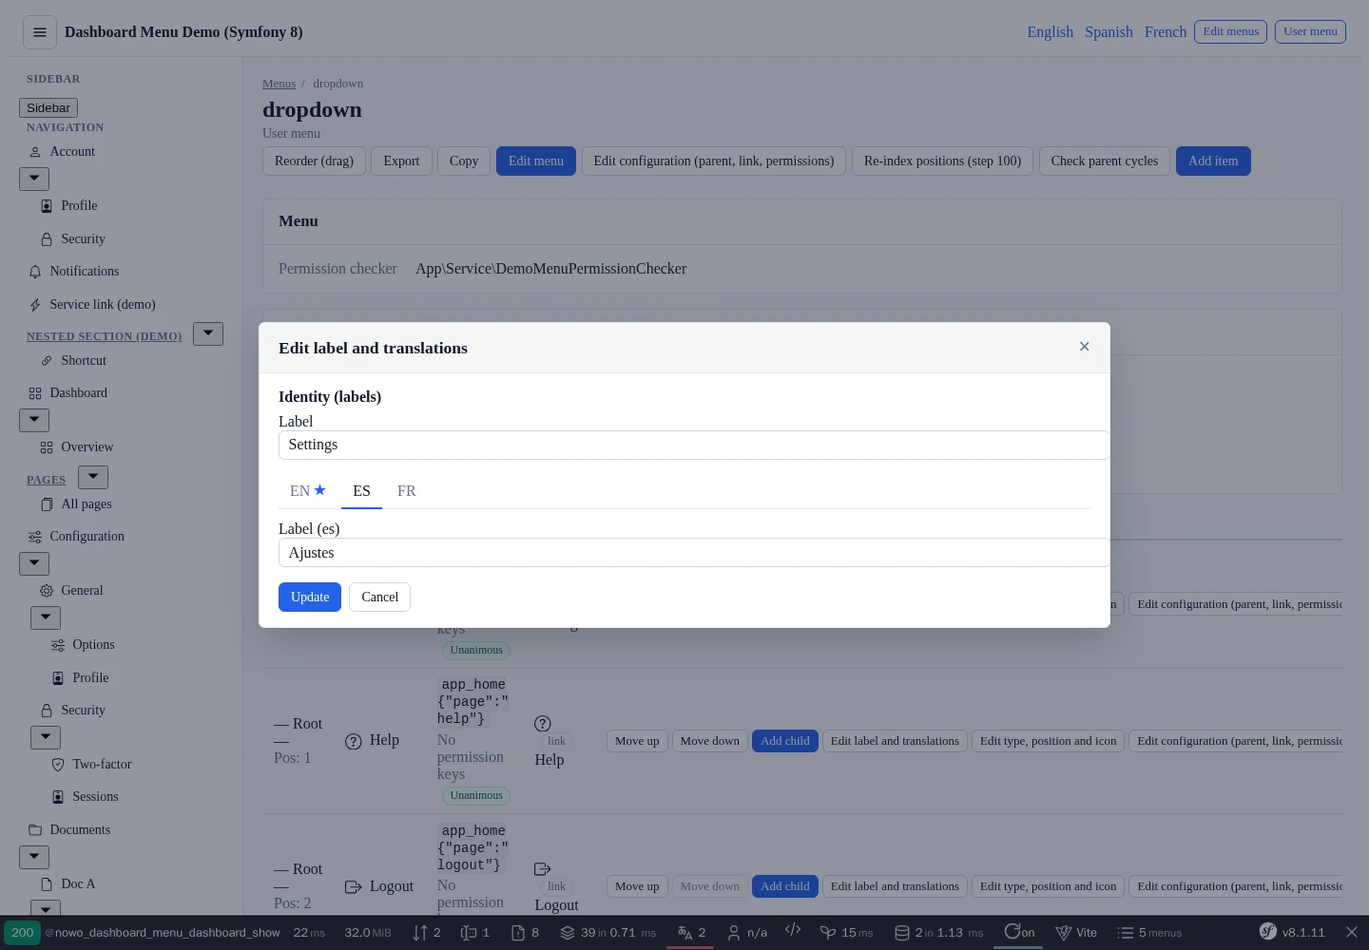
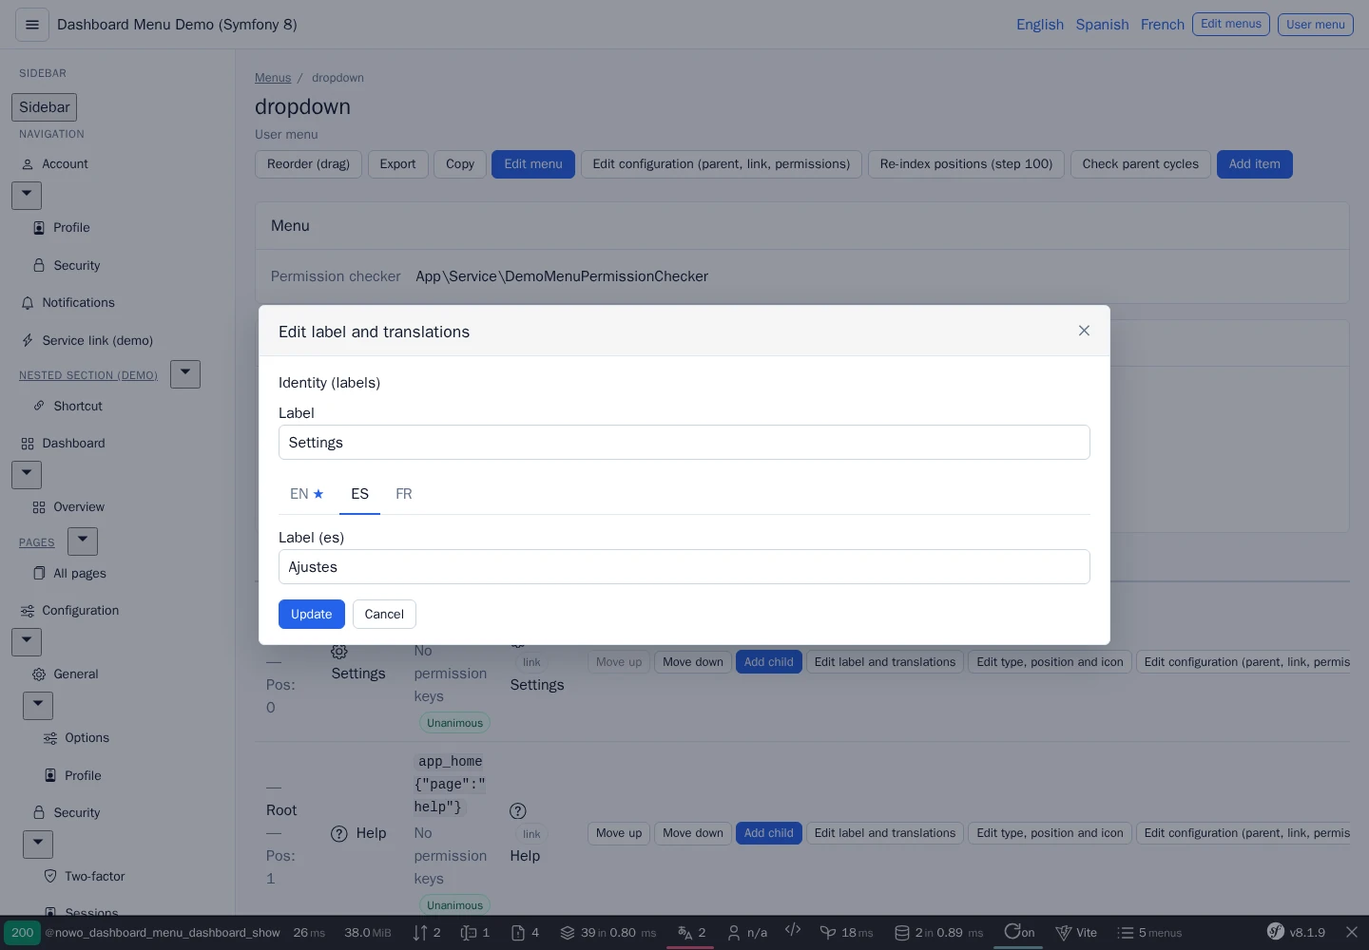
chore(docs): demo opts into UiKit base theme, masthead nav fixed, screenshots regenerated

diff --git a/demo/symfony8/config/reference.php b/demo/symfony8/config/reference.php
@@ -1,7 +1,5 @@
 <?php
 
-declare(strict_types=1);
-
 // This file is auto-generated and is for apps only. Bundles SHOULD NOT rely on its content.
 
 namespace Symfony\Component\DependencyInjection\Loader\Configurator;
@@ -1358,6 +1356,7 @@ use Symfony\Component\Config\Loader\ParamConfigurator as Param;
  *     doctrine?: array{ // Doctrine DBAL connection and table prefix for menu entities.
  *         connection?: scalar|Param|null, // Name of the Doctrine DBAL connection to use (e.g. default, or a custom connection). // Default: "default"
  *         table_prefix?: scalar|Param|null, // Prefix prepended to table names (dashboard_menu, dashboard_menu_item). Empty = no prefix. // Default: ""
+ *         entity_manager?: scalar|Param|null, // Doctrine entity manager the menu entities are mapped on (2.18), e.g. a dedicated "dashboard_menu" manager of a DDD host: mapped there only (also with auto_mapping on the default one) and every read, write and reset of the bundle uses it. Null (default) = the manager that maps them. // Default: null
  *     },
  *     cache?: array{ // Cache for the resolved menu tree (avoids N+1 and repeated DB hits). Uses filesystem when cache_pool is the default.
  *         ttl?: int|Param, // Time-to-live in seconds for the menu tree cache. Minimum 0 (0 = immediate expiry for saved items; behaviour depends on the PSR-6 pool). // Default: 60
@@ -1366,6 +1365,7 @@ use Symfony\Component\Config\Loader\ParamConfigurator as Param;
  *     icon_library_prefix_map?: array<string, scalar|Param|null>,
  *     locales?: mixed, // List of enabled locales for menu labels. When set, the request locale is used only if in this list; otherwise default_locale or the first locale is used. A literal list, or a parameter / env var holding one: "%app.locales%", "%kernel.enabled_locales%", "%env(json:APP_LOCALES)%" (resolved at runtime). // Default: []
  *     default_locale?: scalar|Param|null, // Fallback locale when the request locale is not in locales. If null, the first entry in locales is used. // Default: null
+ *     strict_permission_checker?: bool|Param, // Throw a LogicException when a menu names a permission checker that cannot be resolved. Off by default: the menu then hides its keyed items, keeps keyless ones, logs an error and shows the fallback in the profiler (so a typo never locks you out of the dashboard). // Default: false
  *     permission_checker_choices?: list<scalar|Param|null>,
  *     menu_link_resolver_choices?: list<scalar|Param|null>,
  *     api?: array{
@@ -1375,7 +1375,8 @@ use Symfony\Component\Config\Loader\ParamConfigurator as Param;
  *     menu_collapse?: array{ // Bootstrap-free nested collapse (2.6.0): menu.html.twig marks the menu root with data-dashboard-menu-collapse* attributes for public/js/menu-collapse.js. Opt-in; the script must be included by the host. See docs/USAGE.md "Nested collapse without Bootstrap JS".
  *         enabled?: bool|Param, // Emit the data-dashboard-menu-collapse* attributes on the rendered menu root (overridable per include with the menuCollapse variable). Default false: markup unchanged. // Default: false
  *         mode?: "auto"|"always"|Param, // "auto" (default): the script stands down while Bootstrap Collapse JS is loaded (no double toggle) and only restores / remembers state. "always": the script takes the toggles over (drops their data-bs-toggle). // Default: "auto"
- *         storage_key?: scalar|Param|null, // localStorage key holding { <menu code>: { <panel id>: open } }. Empty string disables persistence. // Default: "nowo.dashboardMenu.navCollapse"
+ *         storage_key?: scalar|Param|null, // localStorage key holding { <menu code>: { <panel id>: open } }. Empty string (or null) disables persistence. // Default: "nowo.dashboardMenu.navCollapse"
+ *         nested_default?: "expanded"|"collapsed"|"current"|Param, // Initial state of the nested collapsible groups rendered by menu.html.twig (2.16.0). "expanded" (default): every group open (2.15 markup). "collapsed": every group closed. "current": open only the groups whose branch contains the current item. Applies with or without the menu_collapse script; per include: menuCollapseNestedDefault. // Default: "expanded"
  *     },
  *     dashboard?: array{ // Admin dashboard to manage menus and items. Import routes with prefix (e.g. /admin/menus).
  *         enabled?: bool|Param, // Deprecated: The "nowo_dashboard_menu.dashboard.enabled.enabled" option is deprecated, use "nowo_dashboard_menu.web_ui.enabled" instead. // Deprecated alias of web_ui.enabled.
@@ -1475,6 +1476,15 @@ use Symfony\Component\Config\Loader\ParamConfigurator as Param;
  *         icon_size?: scalar|Param|null, // CSS size used to render menu item icons (applied to SVG via width/height and to legacy icons via `font-size`). Example: `1em`, `16px`, `24px`. // Default: "1em"
  *         autocomplete_bootstrap?: bool|Param, // When true (default), dashboard.js registers Symfony UX Autocomplete from esm.sh and injects the Tom Select CDN stylesheet if the host Stimulus app has not registered the controller. Set false when the host app ships UX Autocomplete and its own Tom Select styles (CSP without third-party origins). The script never re-registers a controller the host already registered. // Default: true
  *         item_span_active?: bool|Param, // When true, the item label (non-section items) is wrapped in an extra <span> element. This controls rendering of the wrapper in menu.html.twig. // Default: false
+ *         nested_group_display?: "collapsible"|"link_row"|Param, // How menu.html.twig draws a collapsible section nested in another section: "collapsible" (default, a heading link plus the chevron button) or "link_row" (one <button> toggle row in the link style: icon, label, chevron on the right; classes from group_classes). Top-level sections are unchanged. // Default: "collapsible"
+ *         group_children_marker?: "none"|"dot"|Param, // Marker of the links whose parent is a section (rendered as a nested list, not flattened): "none" (default, their icon) or "dot" (an empty <span class="group_classes.dot"> instead of the icon, styled by the host as a list bullet). // Default: "none"
+ *         toggle_icon?: scalar|Param|null, // Symfony UX icon name of the expand / collapse chevrons in menu.html.twig (e.g. "tabler:chevron-down", rendered with ux_icon and class menu-nested-toggle-svg). Null (default) keeps the inline SVG triangle. // Default: null
+ *         group_classes?: array{ // CSS classes of the markup added by nested_group_display "link_row" and group_children_marker "dot".
+ *             toggle?: scalar|Param|null, // Class added to the link-row <button> (after the link classes). // Default: "menu-group-toggle"
+ *             label?: scalar|Param|null, // Class of the <span> holding the group label. // Default: "menu-group-label"
+ *             chevron?: scalar|Param|null, // Class of the chevron icon of the link row. // Default: "menu-group-chevron"
+ *             dot?: scalar|Param|null, // Class of the dot <span> of the group children. // Default: "menu-group-dot"
+ *         },
  *         css_class_options?: array{ // Lists of CSS classes shown as selectors in the dashboard when editing a menu. Override in app config to customize options.
  *             menu?: list<scalar|Param|null>,
  *             item?: list<scalar|Param|null>,
@@ -1514,14 +1524,19 @@ use Symfony\Component\Config\Loader\ParamConfigurator as Param;
  *     css_framework?: "bootstrap"|"bootstrap5"|"bootstrap4"|"tailwind"|"foundation"|"custom"|"tabler"|"none"|Param, // Host CSS stack: bootstrap5|bootstrap4|tailwind|foundation|custom|none|tabler (bootstrap alias → bootstrap5). // Default: "bootstrap5"
  *     icon_set?: "bootstrap-icons"|"tabler-icons"|"ux_icon"|"svg_inline"|"none"|Param, // Icon rendering: bootstrap-icons|tabler-icons|ux_icon|svg_inline|none. // Default: "bootstrap-icons"
  *     row_actions_display?: "icon"|"text"|"icon_text"|Param, // Table/list row actions: icon (glyph only) | text (label only) | icon_text (both). // Default: "icon"
+ *     row_actions_confirm?: "inline"|"native"|"dialog"|Param, // confirm_message of 1.x row_actions POST hashes (2.22, REQ-UI-003): inline = onsubmit="return confirm(…)" (default, unchanged markup); native | dialog = no inline handler, the confirm-submit Stimulus peer asks (window.confirm or the kit <dialog>). native / dialog need the confirm-submit peer registered. // Default: "inline"
+ *     action_icons?: array<string, scalar|Param|null>,
+ *     action_variants?: array<string, scalar|Param|null>,
  *     panel_path_rewrites?: array<string, scalar|Param|null>,
  *     release_check?: array{ // Optional GitHub release-version checker (footer dialog + JSON endpoint). Off by default.
- *         enabled?: bool|Param, // Register the checker service + controller. Also import @NowoUiKitBundle/Resources/config/routes/release_check.yaml. // Default: false
+ *         enabled?: bool|Param, // Register the checker service + controller. Also import @NowoUiKitBundle/Resources/config/routes/release_check.yaml. Since 2.33 also a container parameter or "%env(bool:…)%" (false at runtime = the check is skipped and the endpoint answers 404). // Default: false
  *         github_repo?: scalar|Param|null, // Public GitHub repository "owner/name" whose releases are compared (e.g. nowo-tech/my-app). // Default: ""
  *         current_version?: scalar|Param|null, // Installed version label, clean semver x.y.z with optional "v" (e.g. "%app.version%"). Non-semver values skip the check. // Default: ""
  *         cache_ttl?: int|Param, // Seconds to cache the GitHub answer (cache.app). Default 12h. // Default: 43200
  *         default_branch?: scalar|Param|null, // Branch used as compare target when the installed version is already the latest. // Default: "main"
  *         user_agent?: scalar|Param|null, // User-Agent sent to api.github.com. // Default: "nowo-ui-kit-release-check"
+ *         timeout?: float|Param, // Idle timeout in seconds of the GitHub "releases/latest" request (HttpClient "timeout"). Keep it below PHP max_execution_time (REQ-RUNTIME-001). // Default: 5.0
+ *         releases_timeout?: float|Param, // Idle timeout in seconds of the GitHub "releases" listing used to count versions behind. Keep it below PHP max_execution_time (REQ-RUNTIME-001). // Default: 8.0
  *     },
  *     route_links?: array{ // Route (or route prefix) → link map read by nowo_ui_route_link(), e.g. for the page-edge "manual" tab (partials/_edge_tab.html.twig). A prefix matches the route itself or any route starting with "<prefix>_"; the longest prefix wins.
  *         base_url?: scalar|Param|null, // Prepended to every relative path (paths starting with "/", "//", "http://" or "https://" are used as is). // Default: ""
@@ -1531,9 +1546,21 @@ use Symfony\Component\Config\Loader\ParamConfigurator as Param;
  *             testid?: scalar|Param|null, // Default: null
  *         }>,
  *     },
+ *     base_stylesheet?: bool|Param, // 2.51: link UiKit's opt-in default theme (css/nowo-ui-base.css) before nowo-ui.css in the document / error layouts: body font stack, page gutters and masthead height for hosts that bring no CSS framework and no theme stylesheet. Its rules nest in `@layer theme.nowo-ui-base`, below `base`, so a framework, host utilities and unlayered host CSS still win. Leave it false when the host already has a framework or a theme file. // Default: false
+ *     font_preload?: array{ // 2.21: <link rel="preload" as="font" crossorigin> tags printed in the <head> of the document and error layouts (Twig nowo_ui_font_preload()) for the fonts painted above the fold. Empty = no tags.
+ *         fonts?: list<scalar|Param|null>,
+ *         manifest?: array{ // Hashed builds: pick the fonts from a Vite manifest (.vite/manifest.json). A missing manifest (dev server) prints nothing.
+ *             path?: scalar|Param|null, // Absolute path of the manifest, e.g. "%kernel.project_dir%/public/build/.vite/manifest.json"; null = off. // Default: null
+ *             entry?: scalar|Param|null, // Manifest entry whose "assets" list holds the fonts. // Default: "assets/app.js"
+ *             prefixes?: list<scalar|Param|null>,
+ *             base?: scalar|Param|null, // Public URL prefix of the manifest assets. // Default: "/build/"
+ *         },
+ *     },
  *     appearance?: array{ // Optional site appearance SPI (presets, --nowo-ui-* token emitter, Twig functions). Off by default.
  *         enabled?: bool|Param, // Default: false
- *         provider?: scalar|Param|null, // Service id implementing AppearanceProviderInterface (host storage). Null = the config defaults below. // Default: null
+ *         provider?: scalar|Param|null, // Service id implementing AppearanceProviderInterface (host storage). Null = the config defaults below (or, 2.40, the brand provider: see brand). // Default: null
+ *         brand?: "auto"|"off"|Param, // 2.40 (spec 220): auto = with provider null and a nowo-tech/brand-contracts BrandProviderInterface service, the brand drives the name, eyebrow, colours and logos (corner, border and footer stay from defaults). off = always the defaults. No brand service = no change. // Default: "auto"
+ *         head_links?: bool|Param, // 2.40: the kit layouts (document, error) print nowo_ui_appearance_head() in <head>: favicon / apple-touch links of the appearance logos and meta theme-color (paper colour per colour scheme). Off = the 2.39 <head>. // Default: false
  *         defaults?: array{
  *             brand_name?: scalar|Param|null, // Default: ""
  *             brand_eyebrow?: scalar|Param|null, // Default: ""
@@ -1583,6 +1610,20 @@ use Symfony\Component\Config\Loader\ParamConfigurator as Param;
  *         collection?: scalar|Param|null, // BreadcrumbKit collection code (null = its default collection). PageHeader::breadcrumbCollection overrides it. // Default: null
  *         enabled?: bool|Param, // 2.3.1: false drops the breadcrumb trail (BreadcrumbKit and PageHeader::breadcrumbs) from every page header, e.g. when the host layout renders its own. // Default: true
  *     },
+ *     header?: array{ // 2.27 compact header: the default page-header presentation (a request attribute _nowo_ui_header_presentation overrides it per request) and where PageHeader::actions go in the compact presentation.
+ *         presentation?: "standard"|"compact"|"inline"|"no_intro"|"no_title"|"no_header"|Param, // standard (default) | compact | inline | no_intro | no_title | no_header: in compact the page header keeps a visually hidden h1 and leaves its intro, breadcrumbs and back link to the top bar (header_context); 2.39: inline puts the intro on the title row, no_intro drops the intro, no_title keeps the h1 visually hidden, no_header does both. // Default: "standard"
+ *         compact_actions?: "page"|"bar"|Param, // page (default): header.actions stay in the page header; bar: in the compact presentation the page header leaves them out (the host shows them in the top bar through the page_actions partial). extra_actions always stay. // Default: "page"
+ *     },
+ *     auth_panel?: array{ // 2.44: the auth scaffold (page/auth.html.twig) panel (Twig global nowo_ui_kit_auth_panel).
+ *         brand?: "auto"|"none"|Param, // auto (default, the 2.43 markup): the panel brand region prints the appearance logo lockup, else AuthPage::brand as text; none: the panel prints no brand region (a host guest layout that prints its own brand). A render variable nowo_ui_auth_brand (auto | none) wins over it. // Default: "auto"
+ *     },
+ *     remote_dialog?: array{ // 2.28 remote form dialog (X-Nowo-Dialog requests).
+ *         convert_redirects?: bool|Param, // Turn a RedirectResponse answered to a dialog request (X-Nowo-Dialog: 1, main request) into 204 + X-Nowo-Redirect when its Location is a same-origin path, so redirectToRoute() controllers work in the dialog without code changes. // Default: false
+ *         step_routes?: list<scalar|Param|null>,
+ *         request_header?: scalar|Param|null, // 2.33: request header the dialog sends with "1" (both drivers, RemoteDialogResponder, the redirect listener, nowo_ui_dialog_request()). // Default: "X-Nowo-Dialog"
+ *         redirect_header?: scalar|Param|null, // 2.33: response header of the success answer (204 + <path>: the dialog closes and the page goes there). // Default: "X-Nowo-Redirect"
+ *         location_header?: scalar|Param|null, // 2.33: response header of the step answer (204 + <path>: the dialog stays open and loads the next step). // Default: "X-Nowo-Dialog-Location"
+ *     },
  *     theme?: array{ // Global theme (REQ-UI-003): semantic slot classes / attributes, partial overrides and --nowo-ui-* tokens, configured once for every bundle.
  *         framework_defaults?: bool|Param, // false = slots print the semantic nowo-ui-* class and the host classes only (no UiKit framework defaults such as btn / badge / card). Per slot: classes.<slot>: {value: …, framework_defaults: false}. // Default: true
  *         classes?: array<string, mixed>,
@@ -1592,6 +1633,11 @@ use Symfony\Component\Config\Loader\ParamConfigurator as Param;
  *         tokens_dark?: array<string, mixed>,
  *         confirm_message_in_header?: bool|Param, // Confirm dialogs and the full-page confirm render the message inside the header, under the title (hosts whose dialog header is title + message). View\Confirm::messageInHeader wins when set. // Default: false
  *         popover_menus?: bool|Param, // 2.4: menu / kebab / row-action menus render their panel as a native [popover] (browser top layer: never clipped by table scrollers or cards; nowo-ui-popover.js places it). The partial option `popover` wins. // Default: false
+ *         form_errors_after_widget?: bool|Param, // 2.10: the UiKit form theme (form/nowo_ui_layout.html.twig) prints a field's errors after its widget (and before the help), instead of Symfony's order (label, errors, widget, help). // Default: false
+ *         menu_semantics?: null|"menu"|"disclosure"|Param, // 2.28: ARIA of popover menus with items. null (default) = as 2.27; menu = APG menu button (role="menu" / menuitem, arrow keys in nowo-ui-popover.js); disclosure = no aria-haspopup. The menu partial option `menu_semantics` wins. // Default: null
+ *         dialog?: array{ // 2.31: kit dialog options (docs/THEMING.md#dialog-sizes-229).
+ *             height?: "content"|"size"|Param, // 2.31: content (default, dialog rule v2) = a dialog is as tall as its content, capped at min(the size's height token, 100dvh - 2rem), only the body scrolls; size = every dialog with a field, list, table or fold has the size's height (2.29 / 2.30), printed as --nowo-ui-dialog-fill: 1 by nowo_ui_theme_css(). // Default: "content"
+ *         },
  *         bundles?: array<string, array{ // Default: []
  *             framework_defaults?: bool|Param, // Override of theme.framework_defaults for this bundle (unset = inherit).
  *             classes?: array<string, mixed>,
@@ -1610,6 +1656,25 @@ use Symfony\Component\Config\Loader\ParamConfigurator as Param;
  *             classes?: array<string, mixed>,
  *             attributes?: array<string, array<string, mixed>>,
  *             header_actions_in_filters?: bool|Param, // list only: render the page-header actions at the end of the filter row instead of the page header (ListPage::headerActionsInFilters wins when set; unset = false).
+ *             filters?: array{ // list only (2.30): host options of the list scaffold filters (page/_list_filters.html.twig). Unset = the 2.29 output.
+ *                 display?: null|"text"|"icon"|"icon_text"|Param, // Default display of the apply / clear / extra filter buttons (ListPage::filtersDisplay and Action::display win; set, the plain clear link follows it too). null = the 2.29 behaviour. // Default: null
+ *                 submit_icon?: scalar|Param|null, // Icon of the apply button when it shows one (components/_icon.html.twig name; null = filter). ListPage::filtersSubmit->icon wins. // Default: null
+ *                 clear_icon?: scalar|Param|null, // Icon of the plain clear link (ListPage::filtersClearHref) when it shows one (null = filter_off). // Default: null
+ *                 submit_class?: scalar|Param|null, // Host classes of the apply button, replacing its btn_<variant> slot classes (nowo-ui-filters__submit and, icon-only, the btn_icon slot stay). null = the slot classes. // Default: null
+ *                 clear_class?: scalar|Param|null, // Host classes of the clear button (plain link or ListPage::filtersClear Action), replacing its btn_<variant> slot classes. null = the slot classes. // Default: null
+ *                 grid?: scalar|Param|null, // Grid tracks of the filter fields: auto-fit (default: a lone filter stretches across the card), auto-fill (empty tracks keep their width) or a grid-template-columns track list such as "repeat(auto-fill, minmax(min(100%, 13rem), 1fr))" (printed as the --nowo-ui-filters-grid-columns token by nowo_ui_tokens(); no inline style). // Default: "auto-fit"
+ *                 fold?: array{ // Fold toggle of the filters card (partials/_filters_collapse.html.twig, Stimulus peer filters-collapse). ListPage::filtersFold wins.
+ *                     enabled?: bool|Param, // Render the fold toggle (the card renders open unless the cookie remembers it folded). // Default: false
+ *                     cookie?: scalar|Param|null, // Cookie remembering the folded pages (comma-separated page keys; SameSite=Lax, no secrets). // Default: "nowo_ui_filters_collapsed"
+ *                     cookie_path?: scalar|Param|null, // Path of that cookie. // Default: "/"
+ *                     icons?: array{
+ *                         expanded?: scalar|Param|null, // Icon while the card is open. // Default: "chevron_up"
+ *                         collapsed?: scalar|Param|null, // Icon while the card is folded. // Default: "chevron_down"
+ *                     },
+ *                     testids?: bool|Param, // data-testid filters-collapse-toggle / filters-collapse-summary. // Default: false
+ *                     morph?: bool|Param, // Add the <morph-icon> of assets/morphicons to the toggle. // Default: false
+ *                 },
+ *             },
  *         }>,
  *     },
  *     error_pages?: array{ // Kit error pages (2.6): templates/bundles/TwigBundle/Exception/error.html.twig = {% extends '@NowoUiKit/error/status.html.twig' %}.
@@ -1626,6 +1691,8 @@ use Symfony\Component\Config\Loader\ParamConfigurator as Param;
  *         }>,
  *         illustration_width?: int|Param, // Default intrinsic width of the illustrations. // Default: 1024
  *         illustration_height?: int|Param, // Default intrinsic height of the illustrations. // Default: 683
+ *         illustration_provider?: scalar|Param|null, // 2.47: service id implementing Nowo\UiKitBundle\View\ErrorIllustrationProviderInterface, asked first per status code (null answer, any exception or an invalid illustration → the illustrations map). Must be fast and must not need the database. Null = the map only. // Default: null
+ *         illustration_provider_budget_ms?: int|Param, // 2.47: when > 0, a provider call slower than this many milliseconds makes the rest of the same request skip the provider (logged once). 0 = no budget. // Default: 0
  *         webp?: bool|Param, // Illustrations ship a .webp next to the fallback image (<source type="image/webp">). // Default: true
  *         retry_statuses?: list<int|Param>,
  *         back_link_statuses?: list<int|Param>,
@@ -1640,6 +1707,13 @@ use Symfony\Component\Config\Loader\ParamConfigurator as Param;
  *         sidebar_hidden_value?: scalar|Param|null, // Cookie value of the hidden aside. // Default: "collapsed"
  *         sidebar_rail_value?: scalar|Param|null, // Cookie value of the icons-only rail. // Default: "rail"
  *         sidebar_storage?: scalar|Param|null, // localStorage key of the aside mode (data-nowo-ui-sidebar-storage on the shell root; kit_styles + rail only). // Default: null
+ *         sidebar_layout?: "below-header"|"full-height"|Param, // 2.32: below-header (default, the 2.31 markup byte for byte) | full-height: on desktop the aside runs from the top edge with the burger and the brand in its head (aside_brand_html / brand_icon_html + brand_name / brand_html), the header and the footer start at its right edge. The app_shell_open option sidebar_layout, then the request attribute _nowo_ui_sidebar_layout, win over it. // Default: "below-header"
+ *         brand?: array{ // 2.32: the shell brand from config (no template override): the aside head of the full-height layout, and the header brand when a page passes neither brand_html nor brand. The app_shell_open options brand_name / brand_href / brand_icon_src / brand_icon_html / aside_brand_html win.
+ *             name?: scalar|Param|null, // Brand name (text); the icons-only rail hides it and keeps it as the link name. // Default: null
+ *             href?: scalar|Param|null, // Brand link: relative, http, https or mailto (validated when the container compiles; javascript:, data: and other schemes are refused). // Default: null
+ *             icon_src?: scalar|Param|null, // Brand icon image URL (e.g. /images/logo.svg; prefer same-origin or https), rendered as <img> in every aside mode; without it the name's initial. Relative, http or https only (validated when the container compiles). // Default: null
+ *         },
+ *         hover_expand?: bool|Param, // 2.32: with kit_styles and rail_mode, the icons-only rail widens over the page while the pointer or the keyboard focus is on it (data-nowo-ui-sidebar-hover-expand on the shell root, is-aside-peek set by nowo-ui-shell.js). The app_shell_open option hover_expand wins. // Default: false
  *     },
  * }
  * @psalm-type NowoFormKitConfig = array{

diff --git a/docs/CHANGELOG.md b/docs/CHANGELOG.md
@@ -127,6 +127,7 @@ and this project adheres to [Semantic Versioning](https://semver.org/spec/v2.0.0
 ### Changed
 
 - docs: demo screenshots regenerated on the UiKit base style
+- demo: opt into UiKit 2.51 `nowo_ui_kit.base_stylesheet`, use `nowo-ui-header__nav` for the masthead nav, screenshots regenerated with the themed shell
 
 ## [2.21.1] - 2026-11-13
 
